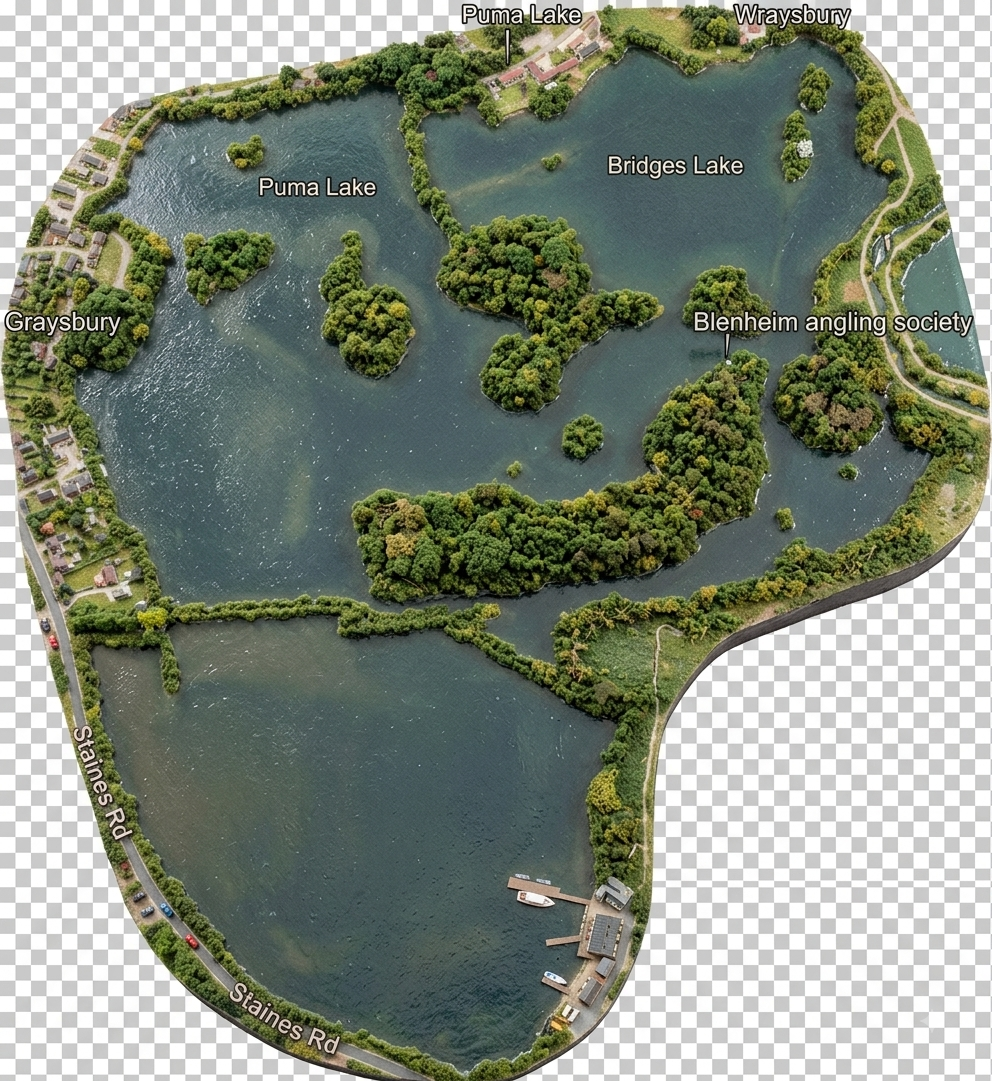
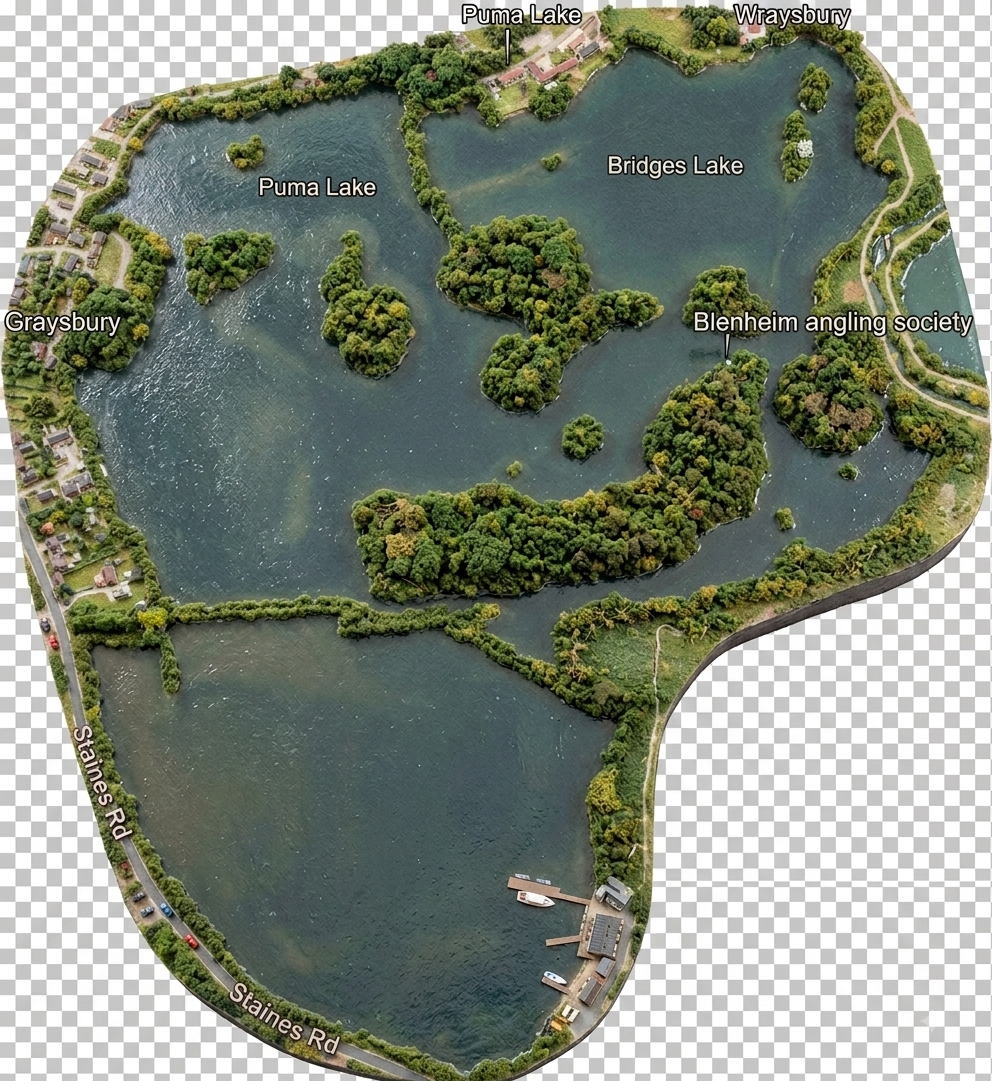
Replace Wraysbury lake image with transparent-background asset

diff --git a/index.html b/index.html
@@ -225,7 +225,7 @@
     <script src="js/breeding.js?v=13"></script>
     <script src="js/finance.js?v=13"></script>
     <script src="js/dashboard.js?v=18"></script>
-    <script src="js/lakes.js?v=19"></script>
+    <script src="js/lakes.js?v=20"></script>
     <script src="js/welcome-entry.js?v=17"></script>
     <script src="js/staff.js?v=14"></script>
     <script src="js/minigame-duckhunt.js?v=3"></script>
